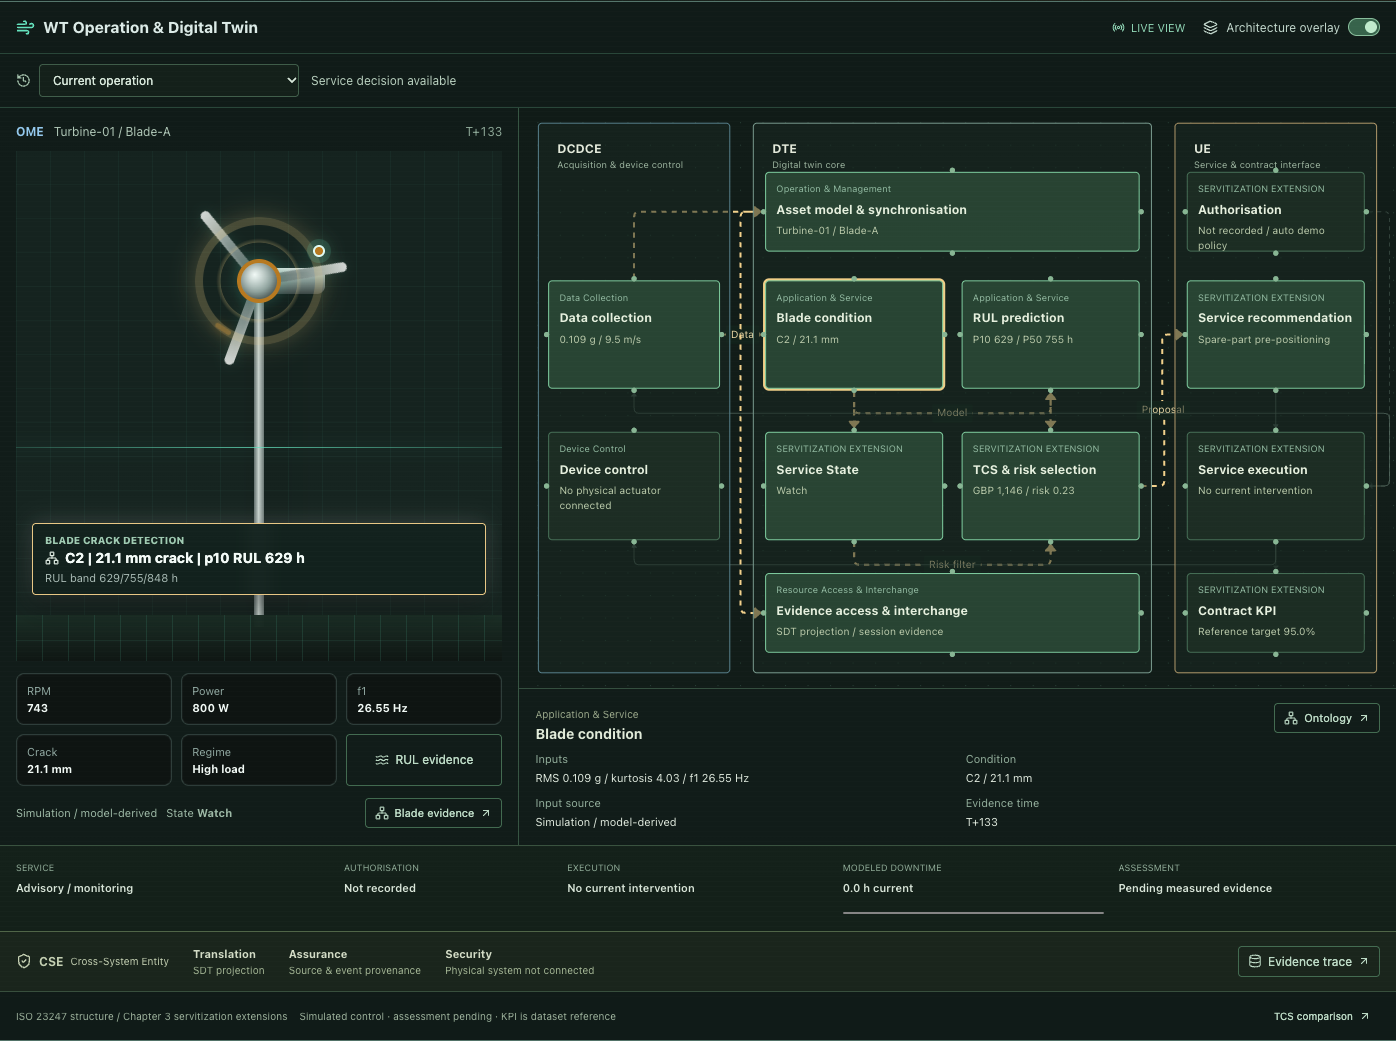
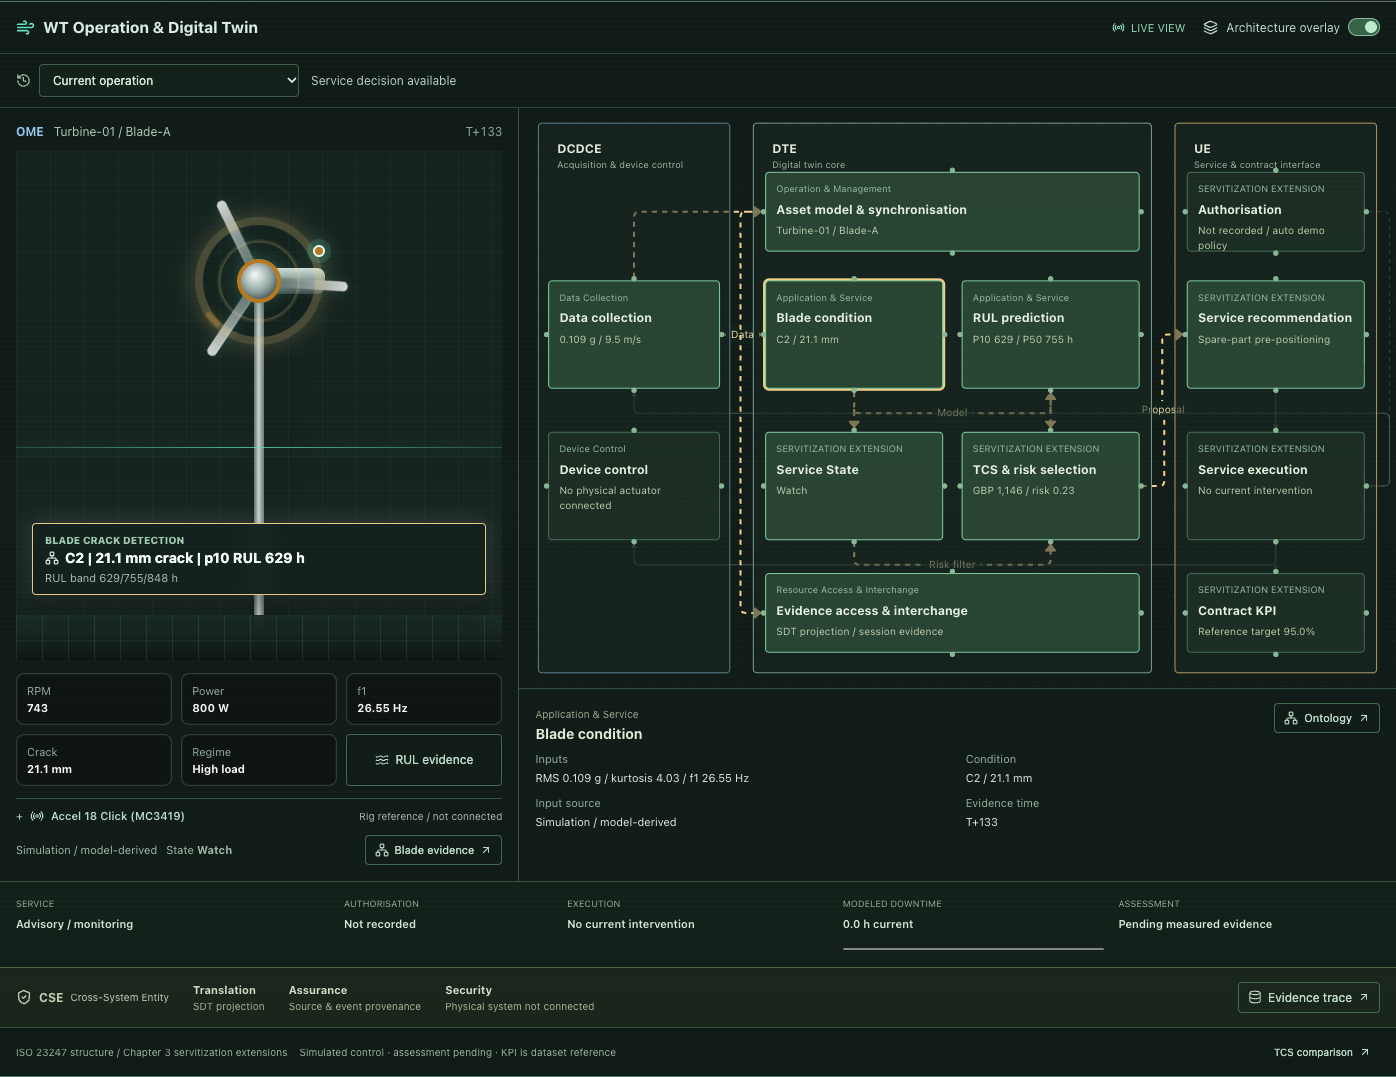
feat: show source-backed rig sensor references across WT digital twin

diff --git a/src/ontology/model.ts b/src/ontology/model.ts
@@ -1,3 +1,5 @@
+import { auxiliaryChannelReferences, bladeSensorFields, bladeSensorReference } from '../model/instrumentation.ts';
+
 export type OntologyReading = {
   t: string;
   source?: string;
@@ -109,8 +111,8 @@ export function buildSemanticGraph(snapshot: OntologySnapshot, execution?: Ontol
   const proposalProvenance = [field('Evidence source', evidenceSource(proposal.reading)), field('Captured at', proposal.capturedAt), field('Reading time', proposal.reading.t)];
   node('asset', snapshot.asset, 'sdt:Asset', 'OME', 'asset', 0, 0, 'Asset context', [field('GPS', `${snapshot.position.lat.toFixed(5)}, ${snapshot.position.lon.toFixed(5)}`), field('GPS source', snapshot.position.source)]);
   node('blade', snapshot.component, 'sdt:Component', 'OME', 'asset', 0, 175, 'Monitored component', [field('Crack length', p.crackMm == null ? 'Unavailable' : `${p.crackMm.toFixed(1)} mm`)]);
-  node('sensor', 'Blade vibration sensor', 'sdt:Sensor', 'DCDCE', 'asset', 0, 350, 'Logical sensor mapping', [field('Sensor identity', 'Channel mapping only; device ID not supplied'), field('Observable property', 'Blade acceleration')]);
-  node('environment', 'Wind and site context', 'sdt:OperatingEnvironment', 'OME', 'evidence', 245, 0, evidenceSource(p), [field('Wind speed', `${p.windSpeed.toFixed(1)} m/s`), field('Wind direction', `${p.windDirection} deg`), ...provenance]);
+  node('sensor', bladeSensorReference.name, 'sdt:Sensor', 'DCDCE', 'asset', 0, 350, 'Rig reference / not connected', [...bladeSensorFields, field('Configuration source', bladeSensorReference.source), field('Reference individual', bladeSensorReference.uri), field('Mapping scope', 'Logical dashboard channel; no live device identity or owl:sameAs assertion')]);
+  node('environment', 'Wind and site context', 'sdt:OperatingEnvironment', 'OME', 'evidence', 245, 0, evidenceSource(p), [field('Wind speed', `${p.windSpeed.toFixed(1)} m/s`), field('Wind direction', `${p.windDirection} deg`), ...auxiliaryChannelReferences.slice(0, 2), field('Instrument source', 'Chapter 5 commissioning plan / not live hardware'), ...provenance]);
   node('condition', 'Blade condition', 'sdt:ConditionEvent', 'DTE', 'evidence', 245, 175, p.crackState ?? 'Unclassified', [field('Crack length', p.crackMm == null ? 'Unavailable' : `${p.crackMm.toFixed(1)} mm`), field('Severity', p.crackState ?? 'Unavailable'), ...provenance]);
   node('observation', 'Vibration observation', 'sosa:Observation', 'DCDCE', 'evidence', 245, 350, evidenceSource(p), [field('RMS', `${p.vibrationRms.toFixed(3)} g`), field('Kurtosis', p.kurtosis.toFixed(2)), field('Modal f1', `${p.modalF1.toFixed(2)} Hz`), ...provenance]);
   node('state', snapshot.serviceState, 'sdt:ServiceState', 'DTE', 'decision', 490, 0, 'Dashboard policy result', [field('Policy', 'Highest severity across crack, vibration and RUL'), ...provenance]);

diff --git a/src/twin/TwinWorkspace.tsx b/src/twin/TwinWorkspace.tsx
@@ -2,6 +2,7 @@ import { useEffect, useMemo, useState, type ReactNode } from 'react';
 import ReactFlow, { Background, Handle, MarkerType, Position, useNodesState, type NodeProps, type Edge, type Node } from 'reactflow';
 import { ArrowUpRight, ChevronLeft, ChevronRight, Database, History, Layers, Network, Pause, Play, Radio, RotateCcw, ShieldCheck, Wind } from 'lucide-react';
 import { evidenceSource, type OntologyExecution, type OntologySnapshot } from '../ontology/model';
+import { auxiliaryChannelReferences, bladeSensorFields, derivedConditionNote } from '../model/instrumentation';
 import { activeConnections, activeModules, architectureModules, moduleValue, replayFrames, stageLabel, workflowStage, type ArchitectureModule, type ModuleId, type ReplayFrame } from './model';
 import './twin.css';
 
@@ -47,7 +48,7 @@ function detailRows(id: ModuleId, snapshot: OntologySnapshot, event: OntologyExe
     case 'kpi': return [{ label: 'Contract target', value: snapshot.contract ? `${(snapshot.contract.target * 100).toFixed(1)}%` : 'Unavailable' }, { label: 'Reference availability', value: snapshot.contract ? `${(snapshot.contract.actual * 100).toFixed(1)}%` : 'Unavailable' }, { label: 'Scope', value: 'Chapter 5 reference; not recalculated from this simulated intervention' }];
     case 'registry': return [{ label: 'Asset / component', value: `${snapshot.asset} / ${snapshot.component}` }, { label: 'State', value: snapshot.serviceState }, { label: 'Coordinates', value: `${snapshot.position.lat.toFixed(5)}, ${snapshot.position.lon.toFixed(5)} / ${snapshot.position.source}` }];
     case 'access': return [{ label: 'Representation', value: 'Chapter 4 SDT schema / shared event records' }, { label: 'Validation', value: 'Live OWL / SHACL not run' }, { label: 'Persistence', value: 'Latest 30 events saved in this browser; history JSON import / export' }];
-    default: return [{ label: 'Observation', value: `${p.vibrationRms.toFixed(3)} g / wind ${p.windSpeed.toFixed(1)} m/s / ${p.windDirection} deg` }, { label: 'Device', value: 'Logical vibration channel; device ID not supplied' }, ...common];
+    default: return [{ label: 'Observation', value: `${p.vibrationRms.toFixed(3)} g / wind ${p.windSpeed.toFixed(1)} m/s / ${p.windDirection} deg` }, ...bladeSensorFields, ...auxiliaryChannelReferences, { label: 'Auxiliary source', value: 'Chapter 5 commissioning plan / not live hardware' }, { label: 'Derived outputs', value: derivedConditionNote }, ...common];
   }
 }
 

diff --git a/src/model/instrumentation.ts b/src/model/instrumentation.ts
@@ -1,0 +1,30 @@
+// Hardware references from the rig ABox and Chapter 5 commissioning plan, not live devices.
+export const bladeSensorReference = {
+  name: 'Accel 18 Click (MC3419)',
+  type: 'Triaxial accelerometer',
+  observable: 'Blade acceleration / flap-wise vibration',
+  placement: 'Blade A / 80% span / suction side',
+  entity: 'rig:Accel18-onBlade-A',
+  uri: 'http://dtservit.org/ontology/rig#Accel18-onBlade-A',
+  source: 'Rig ABox / Appendix D, Table D.2',
+  connection: 'Reference configuration / hardware not connected',
+  identity: 'Device serial ID and calibration record not supplied'
+} as const;
+
+export const auxiliaryChannelReferences = [
+  { label: 'Wind speed instrument', value: 'Anemometer / model not recorded' },
+  { label: 'Wind direction instrument', value: 'Wind vane / model not recorded' },
+  { label: 'Rotor-speed channel', value: 'Generator-phase tachometer pulses / planned channel' },
+  { label: 'Electrical channels', value: 'Generator voltage / load-current shunt / models not recorded' }
+] as const;
+
+export const bladeSensorFields = [
+  { label: 'Reference sensor', value: bladeSensorReference.name },
+  { label: 'Sensor type', value: bladeSensorReference.type },
+  { label: 'Reference observable', value: bladeSensorReference.observable },
+  { label: 'Reference placement', value: bladeSensorReference.placement },
+  { label: 'Hardware status', value: bladeSensorReference.connection },
+  { label: 'Device identity', value: bladeSensorReference.identity }
+] as const;
+
+export const derivedConditionNote = 'Crack length and RUL are replay/model outputs, not direct sensor measurements';

diff --git a/src/App.tsx b/src/App.tsx
@@ -13,6 +13,7 @@ import {
   Gauge,
   MapPin,
   Network,
+  Radio,
   RotateCcw,
   ShieldCheck,
   SlidersHorizontal,
@@ -30,6 +31,7 @@ import { actionTypes, updateExecutionLog, type OntologyExecution, type OntologyS
 import TwinWorkspace, { type ReplayRequest } from "./twin/TwinWorkspace";
 import { advanceStats, conditionPrediction, conditionState, emptyStats, inputBounds, inputRangeErrors, modelMetadata, operatingOutput, readingFreshness, simulationAvailability, type SimulationStats } from "./model/operating";
 import { closeRestoredSession, interruptExecution, parseSession, sessionKey, type SavedSession } from "./model/session";
+import { bladeSensorFields, bladeSensorReference, derivedConditionNote } from "./model/instrumentation";
 
 const LazyTelemetryChart = lazy(() => import("./TelemetryChart"));
 
@@ -967,6 +969,10 @@ function TurbinePanel({ latest, serviceState, embedded = false, linked = false, 
         <span>Regime <strong>{regime}</strong></span>
         {onRulSelect && <button onClick={onRulSelect}><Waves size={14} />RUL evidence</button>}
       </div>
+      <details className="instrumentation-reference" aria-label="Blade sensor reference">
+        <summary><Radio size={14} aria-hidden="true" /><strong>{bladeSensorReference.name}</strong><span>Rig reference / not connected</span></summary>
+        <dl>{bladeSensorFields.filter((row) => row.label !== 'Reference sensor').map((row) => <div key={row.label}><dt>{row.label}</dt><dd>{row.value}</dd></div>)}<div><dt>Evidence boundary</dt><dd>{derivedConditionNote}</dd></div></dl>
+      </details>
     </section>
   );
 }

diff --git a/src/styles.css b/src/styles.css
@@ -558,6 +558,17 @@ h2 {
   box-shadow: 0 0 16px currentColor;
 }
 
+.instrumentation-reference { margin-top: 12px; border-top: 1px solid #365442; padding-top: 10px; font-size: 11px; }
+.instrumentation-reference summary { display: flex; align-items: center; flex-wrap: wrap; gap: 7px; cursor: pointer; color: #bad9cc; }
+.instrumentation-reference summary strong { font-size: 11px; font-weight: 600; }
+.instrumentation-reference summary > span { margin-left: auto; font-size: 10px; color: #aab8b0; }
+.instrumentation-reference summary::before { content: '+'; color: #b4d4c2; }
+.instrumentation-reference[open] summary::before { content: '-'; }
+.instrumentation-reference summary:focus-visible { outline: 2px solid #b7e6c7; outline-offset: 3px; }
+.instrumentation-reference dl { display: grid; gap: 9px; margin: 12px 0 0; }
+.instrumentation-reference dt { color: #92ae9b; font-size: 10px; }
+.instrumentation-reference dd, .twin-workspace .instrumentation-reference dd { margin: 3px 0 0; color: #dce8de; font-size: 11px; line-height: 1.5; overflow-wrap: anywhere; }
+
 .sensor-dot {
   position: absolute;
   left: calc(50% + 54px);

diff --git a/docs/model/INSTRUMENTATION_REFERENCE.md b/docs/model/INSTRUMENTATION_REFERENCE.md
@@ -1,0 +1,36 @@
+# Instrumentation Reference Display
+
+## Decision and Scope
+
+Requested on 2026-10-02: add the project's sensor names where appropriate, without cluttering the dashboard. The shared physical view now shows a compact, keyboard-operable disclosure for **Accel 18 Click (MC3419)**. Data Collection holds the primary reference and auxiliary channel types. The existing ontology Sensor node uses the same name and reference metadata; the environment node identifies the wind instruments.
+
+No new panel, device connection, numerical model or sensor-reading source is introduced. A small shared metadata module (`src/model/instrumentation.ts`) keeps the three representations consistent.
+
+## Source Review
+
+Project-relative sources were read locally; full thesis documents are not uploaded to this public repository.
+
+| Source | Supported statement | SHA-256 |
+| --- | --- | --- |
[3 lines of base64/hex data omitted]
+
+The reference individual is `http://dtservit.org/ontology/rig#Accel18-onBlade-A`. This is configuration provenance, not a claim that a particular live dashboard device is that physical individual. The dashboard Sensor retains its own `urn:wt-dashboard:` URI; no `owl:sameAs` is asserted. Provenance fields remain display metadata, not additional native SDT predicates.
+
+## Deliberate Omissions
+
+- Auxiliary instrument models are not confirmed, so only types/channels are shown. The commissioning checklist is a plan, not proof of installed or calibrated hardware.
+- ESP32, Teensy, ADS1115 and Jetson are computing/acquisition hardware, not sensor names; they are not added as sensor nodes.
+- Crack length and RUL are replay/model outputs, not direct measurements from dedicated crack/RUL sensors.
+- Browser GPS is not evidence of a GPS module installed on the turbine; no hardware name is invented.
+- The existing decorative animation dot is not relabelled as a geometrically accurate 80%-span sensor marker. The reference placement is textual.
+- Planned ODR/range, device serial ID and calibration are not represented as measured or verified commissioning facts.
+
+## Verification
+
+Focused regression: ontology reference name/placement/identity boundaries, missing auxiliary models, and no `owl:sameAs`. Browser verification covers both standard and enhanced routes, keyboard disclosure, Data Collection, ontology inspection, rotor motion and layout at 1440/1024/390 px. Evidence is written by `scripts/verify-instrumentation-ui.mjs` to `screenshots/instrumentation/`; public checks use its `public/` subdirectory.
+
+Local results: build passed (existing >500 KB chunk warning remains), ontology source check passed (50 classes / 64 properties), and all 23 tests passed (6 ontology, 6 framework, 11 model). Both routes passed the instrumentation browser checks at 1440/1024/390 px. Screenshots were visually inspected. The continuous-framework regression passed two completed services per route, with visible modules, animated flows and resumed rotor motion preserved.
+
+Implementation and verification are committed to the project's GitHub repository and deployed through its existing Pages workflow. Public verification will be recorded after the deployment finishes.

diff --git a/README.md b/README.md
@@ -65,6 +65,12 @@ Manual, auto and post-service calculations now share `wt-demo-2.0`. Model Heuris
 
 Process and equations: [repair log](docs/fixes/IMPLEMENTATION_LOG.md), [model basis](docs/model/MODEL_BASIS.md), [browser results](screenshots/fixes/verification.json). Real sensing/control, approval, measured effect and live SHACL remain pending.
 
+## Sensor References
+
+WT Operation, Data Collection and the ontology Sensor node show the rig's **Accel 18 Click (MC3419)** reference, including 80% blade-span / suction-side placement. Auxiliary wind instruments and electrical/tachometer channels are identified by type only; unconfirmed models are not guessed. All hardware remains labelled not connected. Crack and RUL are model/replay outputs, not direct sensor readings.
+
+Source review, implementation decisions and limitations: [instrumentation record](docs/model/INSTRUMENTATION_REFERENCE.md). Layout and interaction evidence: [browser verification](screenshots/instrumentation/verification.json).
+
 ## Local Development
 
 ```bash
